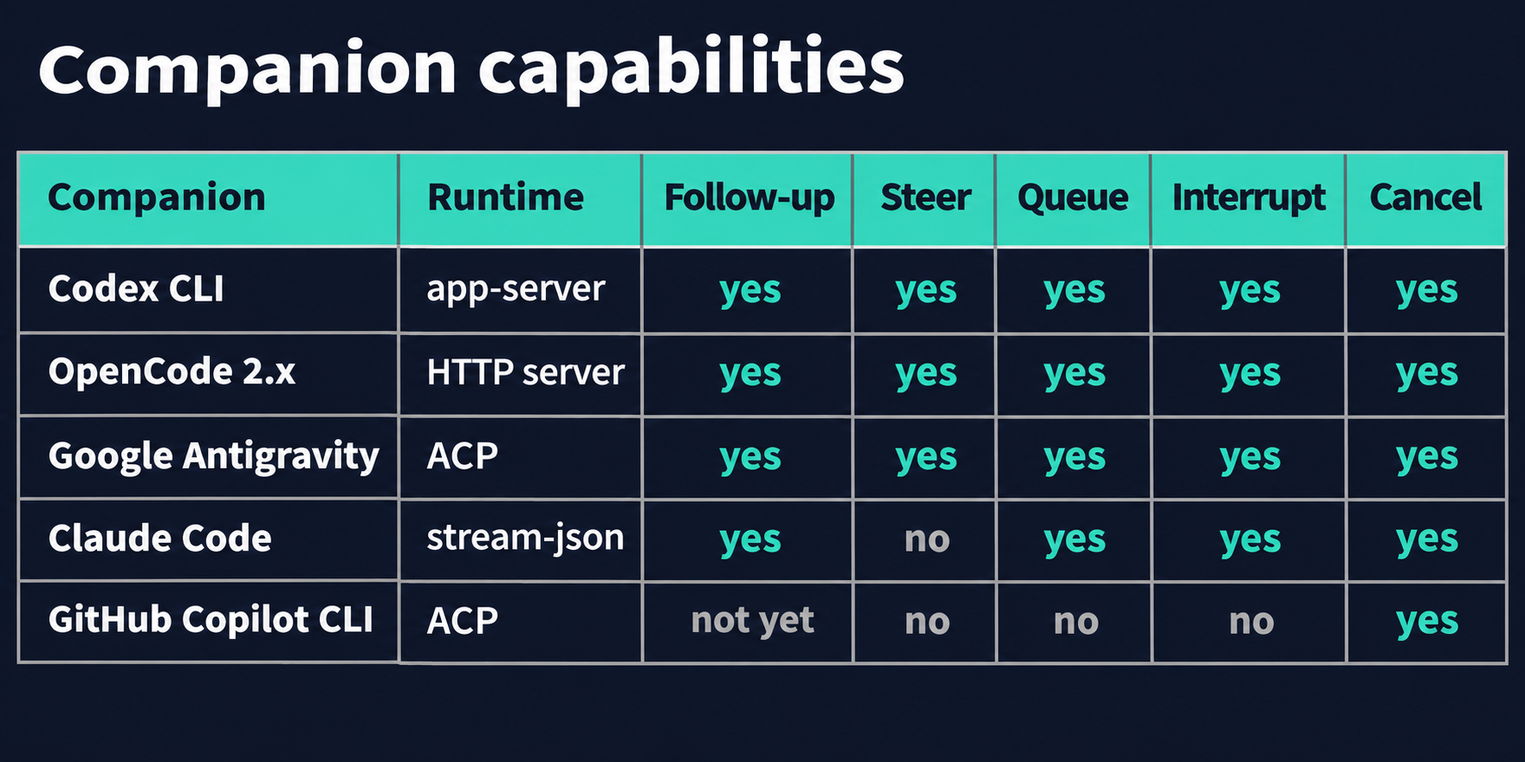
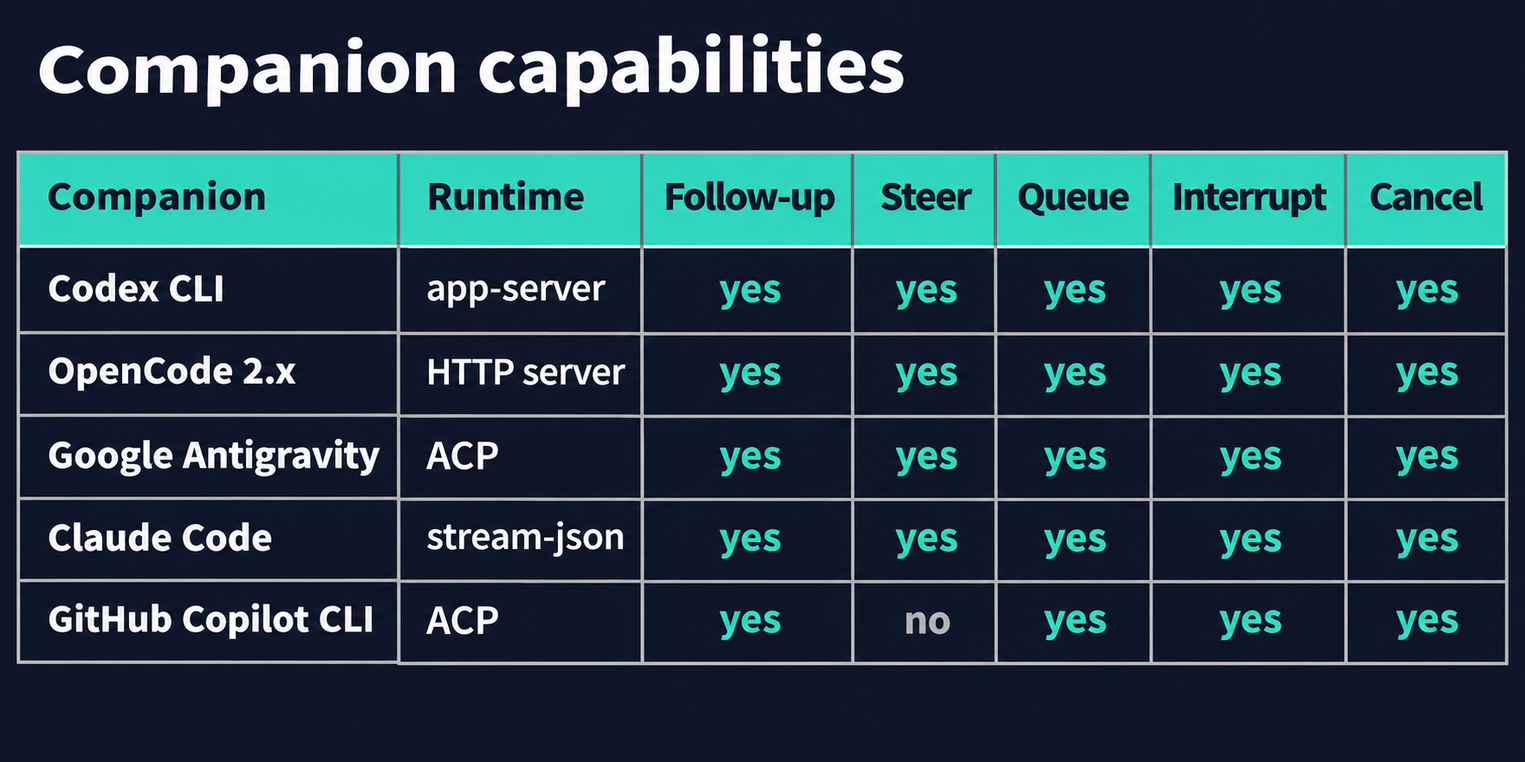
feat(companions): let Copilot follow up on saved history and take queued and interrupting messages, and make Claude's steer and queue real with message priorities
Measured 2026-11-23. Copilot CLI 1.0.114 advertises loadSession; a fresh
process replays the saved session before answering session/load, and the
next model request carries it. The bridge now loads it on a follow-up,
refuses a load that replays nothing and reapplies the model. A second
session/prompt cancels the running one, so Copilot gets queue (default) and
interrupt but no steer. Its load replays user_message_chunk, now declared.

Claude Code 2.1.330 joins a stream-json user message with priority "next"
(or none) at the next tool boundary, and starts "later" after the turn ends.
The bridge sent no priority for queue, so Claude's queue was steering. Steer
now sends "next" (the new default) and queue "later"; a native-queue companion
takes every mode itself and reports the join.

Live through the bridge on local Ollama (32k context, isolated homes): Copilot
follow-up recalled the first job's code word, steer was refused, queue and
interrupt ran as later turns; Claude steer joined the turn, queue and
interrupt ran as later turns. Docs, the capability table and its image follow.

diff --git a/hooks/pane.test.ts b/hooks/pane.test.ts
@@ -486,7 +486,7 @@ test('cancel asks once, sends no text, and no takes it back', async ($, on) => {
   await ui.unmount()
 })
 
-test('Copilot takes cancel only: no box and no mode, cancel kept', async ($, on) => {
+test('a job recorded with no message modes (a Copilot job from an earlier release) takes cancel only: no box and no mode, cancel kept', async ($, on) => {
   const copilot = await boxed($, on, { companion: 'copilot', interventionModes: { default: null, steer: false, queue: false, interrupt: false } })
   expect(await copilot.ui.find({ key: 'message' })).toBeUndefined()
   expect(await copilot.ui.find({ key: 'mode' })).toBeUndefined()

diff --git a/docs/THREAD_FEATURES.md b/docs/THREAD_FEATURES.md
@@ -11,6 +11,8 @@ tests (`hooks/*.test.ts`) run under `claude plugin test`, not `node --test`.
 
 After (2026-11-23) — 143 rows: 109 hold, 30 change by design (the table under Features in THREAD_PLAN.md), 4 never held on main either. Eleven holding rows keep a clause that no test pinned on main either, marked `unpinned (also on main)`; one of them has no pin at all.
 
+The Copilot CLI 1.0.114 and Claude Code 2.1.330 history and message rows reflect measurements from 2026-11-23.
+
 ### 1. Delegation basics
 
 | Feature | Where | Pinned by | Depends on the subagent/owner model? | After (2026-11-23) |
@@ -35,7 +37,7 @@ After (2026-11-23) — 143 rows: 109 hold, 30 change by design (the table under 
 | Feature | Where | Pinned by | Depends on the subagent/owner model? | After (2026-11-23) |
 |---|---|---|---|---|
 | OpenCode 2.x runs as a private, password-authenticated `opencode serve` on loopback per job. 1.x is refused. | adapters/opencode.mjs:57-90; lib/target-registry.mjs:61 | opencode.test.mjs:114, :145 | no | holds: bridge-server/adapters/opencode.test.mjs:114. holds, unpinned (also on main): 1.x refusal in bridge-server/adapters/opencode.mjs:64, :87 |
-| Copilot runs as `copilot --acp` with allow-all flags. It is cancel-only and refuses follow-ups. | target-registry.mjs:116-180 | acp.test.mjs:164, :547; acp-protocol.test.mjs:10 | no | holds: bridge-server/adapters/acp-protocol.test.mjs:10 |
+| Copilot runs as `copilot --acp` with allow-all flags. It loads saved sessions, queues by default and supports interrupt. A second prompt cancels the running turn, so steer is unavailable. | lib/companion-registry.mjs:142 | acp.test.mjs:164, :550; acp-protocol.test.mjs:10 | no | holds: bridge-server/adapters/acp-protocol.test.mjs:10 |
 | Codex runs as an owned `codex app-server` from a selected executable/helper pair. | adapters/codex.mjs:89-121, lib/codex-install.mjs | codex.test.mjs:137; codex-install.test.mjs:80 | no | holds: bridge-server/adapters/codex.test.mjs:137 |
 | Antigravity runs as `agy acp`, and each prompt is followed by a receipt request that proves delivery. | target-registry.mjs:342-395, adapters/acp.mjs:286-293 | acp.test.mjs:141, :780 | no | holds: bridge-server/adapters/acp.test.mjs:780 |
 | Claude Code runs as `claude -p` stream-json with a pinned `--session-id` or `--resume`. Init acknowledges delivery. | adapters/claude-protocol.mjs:5-11, claude.mjs:44-104 | claude.test.mjs:63, :95, :108 | no | holds: bridge-server/adapters/claude.test.mjs:95 |
@@ -47,7 +49,7 @@ After (2026-11-23) — 143 rows: 109 hold, 30 change by design (the table under 
 | `MODEL_NOT_ALLOWED`: a malformed id is refused before start, and a session refusal lists the offered models. | controller.mjs:114; state.mjs:251-259; acp.mjs:125-130 | server.test.mjs:270; acp.test.mjs:195, :249 | no | holds: bridge-server/adapters/acp.test.mjs:179 |
 | `EFFORT_NOT_ALLOWED` lists the offered levels or suggests omitting effort. | server.mjs:170-178; codex.mjs:60-65; acp.mjs:150-152; opencode.mjs:14-22 | server.test.mjs:937, :995; acp.test.mjs:207 | no | differs on main too: a native ACP -32602 for an advertised level was relayed as the provider's message there as well; the offered levels and omission hint come only from the bridge's own checks (bridge-server/adapters/acp.test.mjs:207) |
 | `AUTH_REQUIRED` (ACP error -32000) carries the native message plus the descriptor's sign-in steps. | acp.mjs:232-235 | acp.test.mjs:22 | no | holds: bridge-server/adapters/acp.test.mjs:22 |
-| A Copilot follow-up returns `FOLLOWUP_UNSUPPORTED` and never silently starts fresh. | controller.mjs:117 | acp.test.mjs:164; controller.test.mjs:292 | yes: follow-up is the owner's saved history | holds: bridge-server/adapters/acp.test.mjs:164 |
+| A fresh Copilot process loads the saved session and reapplies the model override. Missing replay for that session fails the job with `history_unavailable`. | bridge-server/adapters/acp.mjs:78 | acp.test.mjs:164, :393 | yes: follow-up is the owner's saved history | holds: bridge-server/adapters/acp.test.mjs:164, :393 |
 | `provider_mismatch` and `cwd_mismatch` come with hints naming the bound companion and path. | controller.mjs:101-102; server.mjs:810-819 | server.test.mjs:967; controller.test.mjs:302 | yes: binding is per owner | holds: test/tools.test.mjs:339 |
 | A different task, model or effort on a busy conversation returns `thread_busy`. | controller.mjs:108 | controller.test.mjs:93; incident-regressions.test.mjs:40 | yes: per owner conversation | by design: A different task on a busy conversation returns `thread_busy` |
 | There is no silent fallback: missing history is `history_unavailable`, an unverified previous tree is `previous_execution_unverified`, and ambiguous legacy history is refused. | controller.mjs:154; records.mjs:131-146,196 | controller.test.mjs:292, :326; records.test.mjs:17; migration.test.mjs:172 | yes: per owner conversation | by design: Ambiguous legacy history is refused (`thread_ambiguous`) |
@@ -65,7 +67,7 @@ After (2026-11-23) — 143 rows: 109 hold, 30 change by design (the table under 
 | Claude's static levels (low through max) are validated before spawn and passed as `--effort`. | target-registry.mjs:304; server.mjs:175 | server.test.mjs:359; claude-protocol.test.mjs:61 | no | holds: bridge-server/adapters/claude-protocol.test.mjs:61 |
 | Codex validates against the paginated `model/list`, reads the saved model before resume and confirms `reasoningEffort`. Unlisted models are unverified. | codex.mjs:127-162 | codex.test.mjs:374, :416, :454, :506, :522 | no | holds: bridge-server/adapters/codex.test.mjs:376 |
 | OpenCode effort picks an advertised variant before the model POST, overrides any `#variant`, and is verified from the report. | opencode.mjs:14-22,145-187 | opencode.test.mjs:170, :267, :305, :339 | no | holds: bridge-server/adapters/opencode.test.mjs:305 |
-| Copilot and Antigravity set the session's `model` and `thought_level` options and confirm `currentValue`. Antigravity reapplies them after load. | acp.mjs:115-160,218-226 | acp.test.mjs:141, :207, :363, :461 | no | holds: bridge-server/adapters/acp.test.mjs:363 |
+| Copilot and Antigravity set the session's `model` and `thought_level` options and confirm `currentValue`. Both reapply overrides after load. | acp.mjs:115-160,218-226 | acp.test.mjs:141, :207, :363, :461 | no | holds: bridge-server/adapters/acp.test.mjs:363 |
 | Effective model and effort come from provider reports (including Codex `model/rerouted`) and are kept separate from selected values. | controller.mjs:156-170; codex.mjs:299-305,333 | codex.test.mjs:218, :365; controller.test.mjs:419 | no | holds: bridge-server/adapters/codex.test.mjs:218 |
 | The catalog shows model, effort (saved, last_run, levels), permission, capabilities, readiness, installed version and Codex `contractStatus`, and spawns nothing. | server.mjs:440-487; last-runs.mjs:16 | conversation.test.mjs:56, :129, :157 | no | holds: bridge-server/conversation.test.mjs:23 |
 | Onboarding and setup save or clear a companion's model (`--model <id\|inherit>`) behind the readiness gate. | scripts/onboard.mjs:86-118,326; setup.sh:32,630 | onboard.test.mjs:319, :367; setup-codex-install.test.mjs:674 | no | holds: scripts/onboard.test.mjs:319 |
@@ -75,9 +77,9 @@ After (2026-11-23) — 143 rows: 109 hold, 30 change by design (the table under 
 | Feature | Where | Pinned by | Depends on the subagent/owner model? | After (2026-11-23) |
 |---|---|---|---|---|
 | `agent_reply` sends a steer, queue or interrupt. An omitted mode uses the execution's saved default. | server.mjs:422-426; controller.mjs:462-509 | server.test.mjs:721; interventions.test.mjs:286 | yes: caller replies need the owner | by design: `agent_reply` |
-| An unsupported mode or a closed job returns `reply_unavailable` with reason `capability` or `state`, and no other mode is substituted. | controller.mjs:18-19,472-477 | server.test.mjs:761, :778; acp.test.mjs:547 | partly | by design: a `mode` with no running job is refused as invalid; text alone on an ended thread is a follow-up (plan Features, step 2). A refused running mode returns `intervention_unavailable` with its reason: test/tools.test.mjs:222, :195 (mode on an ended thread) |
+| An unsupported mode or a closed job returns `reply_unavailable` with reason `capability` or `state`, and no other mode is substituted. | controller.mjs:18-19,472-477 | server.test.mjs:761, :778; acp.test.mjs:550 | partly | by design: a `mode` with no running job is refused as invalid; text alone on an ended thread is a follow-up (plan Features, step 2). A refused running mode returns `intervention_unavailable` with its reason: test/tools.test.mjs:222, :195 (mode on an ended thread) |
 | Reply text is capped at 8000 characters. | validation.mjs:138-140 | validation.test.mjs:53 | no | holds: test/tools.test.mjs:339 |
-| Codex, OpenCode and Antigravity default to steer with bridge queue and interrupt. Claude defaults to native queue plus interrupt. Copilot has no modes. | target-registry.mjs:72,127,221,302,354 | target-registry.test.mjs:14; host-parity.test.mjs:107 | no | holds: lib/target-registry.test.mjs:14 |
+| Codex, OpenCode and Antigravity default to steer with bridge queue and interrupt. Claude defaults to steer (`next`), queues natively (`later`) and supports interrupt (`send_now`). Copilot offers bridge queue (default) and interrupt. | lib/companion-registry.mjs:82,142,245,332,389 | lib/companion-registry.test.mjs:14 | no | holds: bridge-server/adapters/claude.test.mjs:307, :320, :344 and bridge-server/adapters/acp.test.mjs:550 |
 | Status reports which of default, steer, queue and interrupt are usable now (all false after close). The catalog reports registry capability. | controller.mjs:536-537; server.mjs:475 | server.test.mjs:721-795 | no | holds: test/tools.test.mjs:408 (status), bridge-server/conversation.test.mjs:23 (catalog). After close the three mode flags are false and `default` keeps its mode name. |
 | Each execution snapshots its `interventionModes` at creation, and the views offer only those. | controller.mjs:120; records.mjs:201 | ui.test.mjs:231; pane.test.ts:699 | no | holds: test/controller/interventions.test.mjs:70 |
 | Queued input becomes the next turn on the same live session, interrupt input goes first, and Claude keeps a native queue. | controller.mjs:200-217,483-492 | interventions.test.mjs:257, :324, :350 | no | holds: test/controller/interventions.test.mjs:299 |
@@ -123,7 +125,7 @@ After (2026-11-23) — 143 rows: 109 hold, 30 change by design (the table under 
 | Results carry stop evidence: gone, signals, survivors, cleanup time and the protocol steps. | controller.mjs:395; server.mjs:312-314 | controller.test.mjs:365 | no | holds: test/controller/controller.test.mjs:230 |
 | The per-call wall is Claude `timeout` 1320000 ms and Codex `tool_timeout_sec` 1320. Wait defaults to 480 s, is capped at 1200 s, and the controller refuses anything above 1200 s. | .claude-plugin/plugin.json:19; .codex-plugin/plugin.json:34; server.mjs:155-158; controller.mjs:431 | host-parity.test.mjs:75; server.test.mjs:79 | no | holds: test/hosts.test.mjs:91 (both walls), test/tools.test.mjs:339 (480/1200 s). holds, unpinned (also on main): direct over-cap refusal in bridge-server/controller/controller.mjs:370 |
 | Start, history and deliver are each bounded at 10 s. | controller.mjs:15-16,148,152,236 | controller.test.mjs:216, :316 | no | holds: bridge-server/adapters/opencode.test.mjs:219 (OpenCode startup), test/controller/controller.test.mjs:67 (delivery). holds, unpinned (also on main): controller start and history deadlines in bridge-server/controller/controller.mjs:98, :102 |
-| Resume per companion: Codex `thread/resume` refuses a busy thread, OpenCode uses its saved session, Claude `--resume` checks the transcript first, Antigravity `session/load` must replay history, and Copilot is refused. | codex.mjs:153-158; claude.mjs:83-90; acp.mjs:80-85,223; target-registry.mjs:165,381 | codex.test.mjs:137, :312; opencode.test.mjs:114, :231; claude.test.mjs:223, :241; acp.test.mjs:391 | yes: history saved per owner | holds: bridge-server/adapters/codex.test.mjs:137, bridge-server/adapters/opencode.test.mjs:114, bridge-server/adapters/claude.test.mjs:63, :233, bridge-server/adapters/acp.test.mjs:391, :164. holds, unpinned (also on main): busy Codex resume in bridge-server/adapters/codex.mjs:158 |
+| Resume per companion: Codex `thread/resume` refuses a busy thread, OpenCode uses its saved session, Claude `--resume` checks the transcript first, and Antigravity and Copilot require history replay on `session/load`. | codex.mjs:153-158; claude.mjs:83-90; acp.mjs:80-85,223; lib/companion-registry.mjs:182,417 | codex.test.mjs:137, :312; opencode.test.mjs:114, :231; claude.test.mjs:223, :241; acp.test.mjs:393 | yes: history saved per owner | holds: bridge-server/adapters/codex.test.mjs:137, bridge-server/adapters/opencode.test.mjs:114, bridge-server/adapters/claude.test.mjs:63, :233, bridge-server/adapters/acp.test.mjs:393, :164. holds, unpinned (also on main): busy Codex resume in bridge-server/adapters/codex.mjs:158 |
 | Antigravity keeps a turn open while a command or subagent is unfinished (3 s / 120 s quiet rules). Silence alone never ends it. | acp.mjs:39-60,253-257; target-registry.mjs:385-387 | acp.test.mjs:607, :659, :671, :707, :739 | no | holds: bridge-server/adapters/acp.test.mjs:607 |
 | Records are written atomically and privately, a crash-left lock fails closed as `RECORD_BUSY`, writers are fenced by generation, and results are immutable. | records.mjs:157-243 | records.test.mjs:27, :59, :69; controller.test.mjs:377 | partly: lock is per owner | holds: test/tools.test.mjs:341 (private record), test/controller/records.test.mjs:27 (generation and immutable result), :68 (competing writers). holds, unpinned (also on main): atomic replacement and crash-left `RECORD_BUSY` in bridge-server/controller/records.mjs:140, :144 |
 | A provider retry (`willRetry`) stays progress and never ends the job. | codex.mjs:355-357 | controller.test.mjs:257; incident-regressions.test.mjs:75; codex.test.mjs:229 | no | holds: bridge-server/adapters/codex.test.mjs:229 |
@@ -159,7 +161,7 @@ After (2026-11-23) — 143 rows: 109 hold, 30 change by design (the table under 
 | The view follows the native transcript live with the live line last. An ended job opens on its outcome, output is folded, preamble hidden, and labels are task/lead/you. | ui/follow.mjs:84-163; lib/transcripts.mjs:161; rows.mjs:168-356 | follow.test.mjs:15, :60; ui.test.mjs:198, :414, :435, :453; transcripts.test.mjs:122, :146 | no | holds: bridge-server/ui/ui.test.mjs:453 |
 | Native text is cleaned of terminal escapes, bidi overrides and controls, and no frame row contains a newline. | rows.mjs:10-22 | rows.test.mjs:7; ui.test.mjs:487, :495 | no | holds: bridge-server/ui/rows.test.mjs:7 |
 | List and transcript keys: arrows or j/k, Enter/Tab/Esc, PgUp/PgDn/Space, g/G, e/E, p, f, /, o, ?, q. | model.mjs:191-246 | ui.test.mjs:178, :380, :435 | no | holds: bridge-server/ui/ui.test.mjs:380 (list, Enter, Esc), :198, :414 (Tab, arrows, paging), :435 (g, e/E, p), :453 (G), :473 (/, o), bridge-server/ui/perf.test.mjs:59 (f). holds, unpinned (also on main): j/k, Space, ?, q in bridge-server/ui/model.mjs:194 |
-| The message box sends in the default mode, Shift+Tab cycles modes, Ctrl+J adds a line, Ctrl+X cancels after y/n, Esc keeps the draft. Refusals show in red; Copilot gets cancel only; an older bridge's job gets a hint. | model.mjs:250-300 | ui.test.mjs:69, :106, :140, :156, :231, :238, :252, :509 | no | holds: bridge-server/ui/ui.test.mjs:69 |
+| The message box sends in the default mode, Shift+Tab cycles modes, Ctrl+J adds a line, Ctrl+X cancels after y/n, Esc keeps the draft. Refusals show in red; Copilot offers queue, interrupt and cancel; an older bridge's job gets a hint. | model.mjs:250-300 | ui.test.mjs:69, :106, :140, :156, :231, :238, :252, :509 | no | holds: bridge-server/ui/ui.test.mjs:69, :238 and lib/companion-registry.test.mjs:14 |
 | A performance gate compares append, scroll, typing, resize and expand at about 500 and 10,000 items. | ui/perf.test.mjs:59 | perf.test.mjs:59 | no | holds: bridge-server/ui/perf.test.mjs:59 |
 | The `d` panel shows saved and inherited values. Enter edits and saves through the same checks, an empty value clears, and a refusal keeps the draft. | model.mjs:215,338-339; ui/defaults.mjs | ui.test.mjs:312, :335, :366 | no | holds: bridge-server/ui/ui.test.mjs:335 |
 | `agent-companion defaults` lists, sets and clears model, effort and target (with `--json`), reads Codex and OpenCode natively, shows the last run for the others, and lists conflicts. | ui/defaults.mjs:45-248; hooks/launch-ui.sh:24 | defaults.test.mjs:66, :90, :113, :165, :229, :264, :311 | no | holds: bridge-server/ui/defaults.test.mjs:66 |

diff --git a/docs/ARCHITECTURE.md b/docs/ARCHITECTURE.md
@@ -185,7 +185,7 @@ The separate `models.availableModels` list still had suffixed Gemini ids.
 The adapter uses the session options. Gemini 3.8 Flash offered `low`, `medium`
 and `high` as thought levels. A reload reset effort to the default, so the
 adapter reapplies both overrides after each load.
-Copilot receives no spawn effort flag. Its cold follow-up remains unsupported.
+Copilot receives no spawn effort flag. The bridge reapplies its model override after a cold load.
 Claude rejects off-enum effort before spawn. Its CLI selection persistence
 was not measured here.
 
@@ -255,9 +255,8 @@ the job's input chain. The tool checks the caller's lead identity. The live view
 states are refused before recording input.
 
 After each native result, the controller settles accepted writes and continues
-while the adapter has pending input or the bridge holds messages. Native queued
-input stays with Claude, which decides whether it joins the current turn or
-starts another. Bridge-held queues start the next turn on the same session.
+while the adapter has pending input or the bridge holds messages. Claude handles queue natively
+and starts the queued message after the running turn ends. Bridge-held queues start the next turn on the same session.
 Interrupt ends the active turn natively, then sends only the new text, ahead
 of held queues. Failure ends the job; outstanding messages become `not_delivered`.
 The result lists each turn's answer once, labelled with the message(s) it answers,
@@ -304,9 +303,9 @@ Each job owns a new process, including the HTTP and ACP providers.
 | --- | --- | --- | --- | --- | --- |
 | Codex CLI | `codex app-server` over stdio | `thread/resume` | Steer, queue, interrupt; steer accepted and confirmed are separate | Explicit override, otherwise inherited; effective model/effort recorded | Saved thread id and vendor rollouts |
 | OpenCode 2.x only | Private `opencode serve` on loopback | Saved session id | Steer, queue, interrupt | `provider/model`, optional variant; resolved model verified | Vendor-persisted session |
-| GitHub Copilot CLI | `copilot --acp` | `FOLLOWUP_UNSUPPORTED` until cold load is qualified | Unsupported | Inherit or select an advertised session model | Session id retained; cross-process load unqualified |
+| GitHub Copilot CLI | `copilot --acp` | `session/load` with history replay | Queue, interrupt | Inherit or select an advertised session model | Native session under `$COPILOT_HOME` |
 | Google Antigravity | `agy acp` over stdio | `session/load` with history replay | Steer (default), queue, interrupt | `model` and `thought_level` after new and load | SQLite under `~/.gemini/antigravity-cli/conversations/` |
-| Claude Code | `claude -p` stream-json over stdio | `--resume` saved session id | Queue, interrupt (`send_now`) | Explicit override, otherwise inherited | Native session id and transcripts |
+| Claude Code | `claude -p` stream-json over stdio | `--resume` saved session id | Steer, queue, interrupt | Explicit override, otherwise inherited | Native session id and transcripts |
 
 OpenCode validates the 2.x authenticated `/api` contract and runtime pid. Its
 bootstrap password stays only in adapter memory. The OS cwd and `PWD` both match
@@ -326,8 +325,22 @@ bridge; catalog's Codex entry and status expose `contractStatus` as
 `match|drift|unverified`. A version-only change is not schema drift.
 
 ACP pins protocol v1. The descriptor supplies argv, permissions, usage and model
-rules. The adapter handles `session/request_permission` itself. Copilot cold
-follow-up remains refused pending account resolution and qualification.
+rules. The adapter handles `session/request_permission` itself. Measured 2026-11-23 on local Ollama in an isolated
+home, Copilot CLI 1.0.114 advertised `loadSession: true` and the `close` and
+`list` session capabilities at initialization. A fresh `copilot --acp` process
+replayed `session/update` notifications, including `user_message_chunk`, before
+answering `session/load`. The next model request included that history and the
+model recalled a code word from the first job. Copilot stores sessions in
+`$COPILOT_HOME/session-state` and `$COPILOT_HOME/session-store.db` (default
+home `~/.copilot`). The bridge requires replay for the saved session. Empty
+replay fails the job with `history_unavailable`. GitHub-hosted models still
+returned 403 on `session/new` for this account.
+
+A second Copilot `session/prompt` cancelled the running prompt
+(`stopReason: cancelled`) and answered the new one. The bridge therefore
+refuses steer. By default it holds the message until the turn ends, then
+sends the next prompt on the same connection. Interrupt sends `session/cancel`
+first.
 
 Antigravity steers with a second `session/prompt` on the running session. The CLI
 answers the first prompt with `end_turn` at once and continues the work under the
@@ -345,8 +358,13 @@ user message is not the acknowledgement. Results are filtered by session id;
 not necessarily the process; the controller owns close and termination.
 Interruption sends a stdin `control_request` with subtype `interrupt`; after an
 adapter-requested interrupt, `aborted_streaming` and `aborted_tools` map to
-`interrupted`. There is no steer support. Queued input is written immediately;
-native UUID lifecycle events identify joined messages and pending turns.
+`interrupted`. Measured 2026-11-23 with the bridge's own `claude -p` stream-json
+arguments, Claude Code 2.1.330 joined a user message with `priority: "next"`
+at the next tool boundary. Omitting priority did the same, so the bridge's
+former queue steered. The bridge now sends `next` for steer (the default) and
+`later` for queue. Claude waits for the turn to end before starting queued input.
+Interrupt still uses the `send_now` control request. Native UUID lifecycle
+events identify joined messages and pending turns.
 
 The Claude companion denies
 `mcp__plugin_agent-companion_agent-bridge__*` and `mcp__agent-bridge__*` through
@@ -384,7 +402,8 @@ See historical substitution failure [F5](RELIABILITY_REMEDIATION.md#1-incident-a
 A follow-up whose saved history cannot be opened fails as `history_unavailable`;
 a new thread whose companion session cannot be created fails as
 `history_create_failed` (Copilot's 403 on an unentitled account, a refused model);
-unsupported cold follow-up fails as `FOLLOWUP_UNSUPPORTED`.
+`FOLLOWUP_UNSUPPORTED` is reserved for companions without saved history.
+No shipped companion returns it.
 A missing delivery acknowledgement produces `delivery_unknown`, terminates the
 runtime and is never automatically resent.
 
@@ -404,7 +423,7 @@ processes. The provider factories create an adapter with this interface:
 | `close()` | Close protocol channels; process termination belongs to the supervisor. |
 | `capabilities` | `{ followUp, modelSelection, loadsHistory, interventions }`; `interventions` references the companion registry's `{ default, steer, queue, interrupt }`, with queue `false`, `bridge` or `native`. Unsupported history load refuses follow-up. |
 | `steer({ text, id })` | Supported by Codex, OpenCode and Antigravity. Codex reports acceptance separately from observed confirmation. |
-| `intervene(input)`, `hasPendingInput()` | Native queue/interrupt delivery and pending-turn observation, used for Claude. Other supported queues are held by the controller. |
+| `intervene(input)`, `hasPendingInput()` | Native steer, queue and interrupt delivery and pending-turn observation, used for Claude. Other supported queues are held by the controller. |
 
 The one startup exception is Claude: `start` receives the saved `historyId` so it
 can choose `--session-id` versus `--resume` at spawn. Other adapters ignore that
@@ -1058,14 +1077,16 @@ These passive fixtures establish host signals, not the shipped cleanup implement
   Work continuing after `end_turn` has no further prompt
   counters, so the bridge marks usage partial. The corrupt-image turn had no usage.
 - **A companion advertising `loadSession: true` does not mean its sessions survive its
-  process.** Copilot CLI 1.0.83 advertises it (measured) and its sessions are
-  process-local (github/copilot-cli#1767). Which is why `session/load` is a
-  descriptor decision (`acp.loadSession`) ANDed with the companion's advertisement, not
-  the advertisement alone: Copilot false; the fake companion's descriptor true; Antigravity
-  true, and measured to mean it — a fresh `agy_acp_server.par` process loads the id,
-  replays twelve updates of history and answers the follow-up from memory.
+  process.** Copilot CLI 1.0.83 advertised it (measured) and its sessions were
+  process-local (github/copilot-cli#1767). The bridge disabled cold load for that version.
+  It requires both the descriptor's `acp.loadSession` and the CLI's advertisement.
+  A fresh Antigravity `agy_acp_server.par` process loaded the id, replayed twelve
+  history updates and answered the follow-up from memory.
   **Superseded 2026-11-22:** `agy acp` replays its own saved histories. A load
   with no replay is refused, including a follow-up to an old `.par` conversation.
+  **Copilot 1.0.114, measured 2026-11-23:** A fresh process on local Ollama
+  replayed the saved session and recalled its code word. The bridge now enables
+  cold load for Copilot and requires replay for the requested session.
 - **A v2 `initialize` request is answered with `protocolVersion: 1`.** By both agents
   measured (Copilot 1.0.83, Gemini 0.59.0; the spec says an agent answers with the
   latest version it supports), so a client cannot probe for v2 support by asking — and

diff --git a/README.md b/README.md
@@ -48,8 +48,7 @@ The lead reuses the thread id. A follow-up after completion starts a new job wit
 where supported. It keeps the model and effort unless you change them. A refused effort preserves the old choice.
 
 **Change running work.** Send new text (up to 8,000 characters) on the thread.
-Steer joins the current turn. Queue holds the message for the next turn, except that
-Claude can join it to the current one. Interrupt stops the turn and sends the new text.
+Steer joins the current turn. Queue holds the message for the next turn. Interrupt stops the turn and sends the new text.
 Omit the mode to use the companion's default. Status shows which modes work now.
 An unavailable mode returns `intervention_unavailable`. Changing model or effort
 mid-job returns `thread_busy`. Repeating the original send returns the existing job.
@@ -100,10 +99,10 @@ If you asked for tests, check the commands and exit codes. Ask the lead to cance
 | Companion | Per-job runtime | Follow-up by cold resume | In-flight messages (default first) | Model selection | History |
 | --- | --- | --- | --- | --- | --- |
 | OpenCode 2.x | Private authenticated `opencode serve` | Saved session | Steer, queue, interrupt | `provider/model`, optional variant | Vendor-persisted session |
-| GitHub Copilot CLI | `copilot --acp` | Unsupported until qualified | Unsupported | Inherit or select a model advertised by the session | Session id retained, cold load unqualified |
+| GitHub Copilot CLI | `copilot --acp` | `session/load` with history replay | Queue, interrupt | Inherit or select an advertised session model | Native session under `$COPILOT_HOME` |
 | Codex CLI | `codex app-server` | `thread/resume` | Steer, queue, interrupt | Inherit or explicit override | Native thread and rollouts |
 | Google Antigravity | `agy acp` over stdio | `session/load` with history replay | Steer, queue, interrupt | Session model and thought level after new/load | Native SQLite history |
-| Claude Code | `claude -p` | `--resume` saved session | Queue, interrupt | Inherit or explicit override | Native transcripts |
+| Claude Code | `claude -p` | `--resume` saved session | Steer, queue, interrupt | Inherit or explicit override | Native transcripts |
 
 **OpenCode.** Run `opencode` and use `/connect` to choose a provider. OpenCode 2.x
 supplies its own server permissions. Inherit its model or request a `provider/model`
@@ -112,9 +111,11 @@ precedence over the variant in the model string.
 
 **GitHub Copilot CLI.** Run `copilot login` with an account that can use Copilot CLI.
 Inherit the session model or pick one it offers. Effort must match that model's
-thought levels. The bundled reviewer inherits the session model. You can cancel a
-running job. Follow-ups return `FOLLOWUP_UNSUPPORTED`, so start a new thread and
-include the context it needs.
+thought levels. The bundled reviewer inherits the session model. Measured on 1.0.114 with local Ollama on
+2026-11-23, a fresh process replayed the saved session and recalled a code word.
+The bridge reapplies the model override after load. Empty replay fails the job
+with `history_unavailable`. Queue is the default. Steer is unavailable because a
+second prompt cancels the running turn. Interrupt cancels, then sends the new text.
 
 **Codex CLI.** Use `codex login` or configure API-key login. Inherit the configured
 model or request one explicitly. Codex checks effort for listed models. For an
@@ -131,6 +132,8 @@ or `ANTHROPIC_API_KEY`. Billing follows your plan or API setup. Inherit your mod
 or name an id or alias. Effort accepts `low`, `medium`, `high`, `xhigh` or `max`.
 Even from a Claude host, the child denies the bridge's tools to itself and disables
 background tasks. Your settings, hooks, plugins and CLAUDE.md still load. Installed runs used 2.1.319.
+Measured on 2.1.330 on 2026-11-23, steer (the default) joined the turn at its
+next tool boundary. Queue waited for the next turn.
 Older versions are unverified. The `--permission-prompts` flag needs 2.1.259 or later. [Compatibility and release gates](docs/RELEASE_READINESS.md)
 
 ## Hosts

diff --git a/docs/RELEASE_READINESS.md b/docs/RELEASE_READINESS.md
@@ -15,7 +15,7 @@ resume, verified cleanup and host-identified leads are the acceptance contract. 
 [Claude report](../probes/host-qualification/claude/REPORT-2026-11-05.md) (2.1.318)
 and [Codex report](../probes/host-qualification/codex/REPORT-2026-11-05.md) (0.166.0)
 are measured host inputs, not installed-form cleanup qualification. Codex desktop,
-operator-only TUI rows, Copilot cold load and Claude companion smoke on both
+operator-only TUI rows and Claude companion smoke on both
 hosts remain open release gates. Those older reports establish Claude as a host,
 not Claude as a companion.
 
@@ -74,12 +74,13 @@ OpenCode companion:
 
 GitHub Copilot CLI companion:
 
-- `lib/target-registry.mjs` prefers native ACP prompt usage and falls back to
+- The ACP adapter prefers native prompt usage and falls back to
   OTEL. Its `usage_update` event is context occupancy, not per-turn tokens.
   Qualify usage on the installed CLI rather than assuming the wire shape from
   its version number.
-- Cold follow-up is refused until account access and cross-process session
-  loading are qualified. No critic footer or answer classification is added.
+- Copilot CLI 1.0.114 replayed saved history on local Ollama (2026-11-23).
+  The bridge requires replay on cold load and reapplies the model override.
+  GitHub-hosted models still get 403 on `session/new` on this account. No critic footer or answer classification is added.
   Supported model ids belong in `lib/state.mjs`.
 
 Codex CLI companion:
@@ -193,8 +194,8 @@ Manual smoke gates before a public tag (real delegations spend model tokens):
    reuse in a new process, default steer, cancel, a background command's file
    and final reply, model selection and bridge-loss cleanup. The probe logs
    whether the model waited in the prompt or the bridge kept the turn open.
-   Also qualify a real Copilot first send and usage, then
-   explicitly test `FOLLOWUP_UNSUPPORTED`; enable cold load only after its own gate.
+   For Copilot, qualify first-send usage on the installed CLI and verify cold
+   follow-up by recalling a value from the first job.
 10. OpenCode 2.x: verify new pid plus same native history on follow-up, canonical
     cwd/worktree and symlink cases, model changes and inherited/resolved model,
     transcript boundaries, cancellation and no surviving descendants. Two
@@ -237,5 +238,6 @@ and verify fresh CI on that exact commit before publication.
   delivery 0.6 s after the job ended, and `/quit` with
   `thread_unload_delay_secs = 0` ending a running job in bridge loss after
   3.5 s.
-- Open, as before: Codex desktop, Copilot cold load and older Claude Code
-  versions; gates 3, 4 and 7 to 11 were not rerun for this release.
+- Live bridge check, 2026-11-23 (isolated homes, local Ollama `gpt-oss:20b`, 32k context): Copilot CLI 1.0.114 recalled the code word on the same thread and refused steer with `intervention_unavailable` (reason `capability`). Claude Code 2.1.330 steer joined two messages in one turn. On both companions, queue ran a second turn. Interrupt ended the first turn as `interrupted` and answered in the second.
+- Codex desktop and older Claude Code versions remain open. Gates 3, 4 and
+  7 to 11 were not rerun in full for this release.

diff --git a/docs/MVP_TRACKER.md b/docs/MVP_TRACKER.md
@@ -80,12 +80,12 @@ tracked in [Release Readiness](RELEASE_READINESS.md).
   wire-effort assertions; implementation validation is hermetic, with live execution
   left to the reviewer.
 
-- Copilot cold follow-up is unsupported (`FOLLOWUP_UNSUPPORTED`) pending account
-  resolution and qualification of cross-process history loading. It must not
-  silently open a new conversation. Copilot accepts no interventions. Codex,
-  OpenCode and Antigravity default to steer and support queue and interrupt.
-  Claude Code defaults to queue and supports interrupt. Unsupported modes
-  return `intervention_unavailable`.
+- Copilot loads saved history on follow-up and fails with `history_unavailable`
+  if the session replays nothing. Its bridge queue is the default. It supports
+  interrupt and refuses steer because a second prompt cancels the running turn.
+  Claude Code, Codex, OpenCode and Antigravity default to steer and support queue
+  and interrupt.
+- Live bridge check, 2026-11-23 (isolated homes, local Ollama `gpt-oss:20b`, 32k context): Copilot CLI 1.0.114 recalled the code word on the same thread and refused steer with `intervention_unavailable` (reason `capability`). Claude Code 2.1.330 steer joined two messages in one turn. On both companions, queue ran a second turn. Interrupt ended the first turn as `interrupted` and answered in the second.
 - OpenCode 1.x is dropped; only the authenticated 2.x HTTP contract is shipped.
 - Codex desktop remains unqualified. TUI-only rows require operator actions:
   compaction, UI stop/restart, native close, suspend/wake and clock observation.
@@ -284,8 +284,8 @@ tracked in [Release Readiness](RELEASE_READINESS.md).
 - Refresh the README artwork and demo for direct threads and the five current
   companions. The architecture diagram and recording still show the former role.
 - Qualify Codex desktop and finish operator-only TUI rows.
-- Resolve Copilot account access, then qualify cold history loading before
-  enabling follow-up; a capability advertisement is insufficient.
+- Qualify GitHub-hosted Copilot models once this account can open a session.
+  It still gets 403 on `session/new`.
 - Phase 5: include a workspace-diff summary on failure, with explicit observation
   limits; partial assistant text does not establish what changed on disk.
 - Permission mirroring remains a separate decision: align companion access
@@ -313,7 +313,7 @@ tracked in [Release Readiness](RELEASE_READINESS.md).
   adapter, as t3code does ([providers-acp.md](https://github.com/pingdotgg/t3code/blob/main/docs/user/providers-acp.md)).
   Each companion has its own quirks (see Negative Results: approval flags,
   advertised `loadSession`, usage shapes), so an unqualified companion would get
-  conservative defaults: no cold follow-up, cancel only, no usage. Needs decision
+  conservative defaults: no cold follow-up, cancellation without in-flight messages, no usage. Needs decision
   9's adoption check and a named companion the user would actually use.
 
 ## Validation Commands

diff --git a/CLAUDE.md b/CLAUDE.md
@@ -58,11 +58,12 @@ Companion/model/effort refusals are `COMPANION_UNCONFIGURED`, `COMPANION_UNSUPPO
 authentication refusals are `AUTH_REQUIRED`, with the descriptor's sign-in steps;
 they are setup problems, not reasons to retry or switch companion. Lead, history
 and job refusals are separate: `LEAD_REQUIRED`, `THREAD_NOT_YOURS`,
-`RECURSION_REFUSED` and `FOLLOWUP_UNSUPPORTED`. Omitted companion uses the
+`RECURSION_REFUSED` and `FOLLOWUP_UNSUPPORTED`. The latter is reserved for companions
+without saved history. No shipped companion returns it. Omitted companion uses the
 configured default; omitted model inherits configuration unless the thread
 already has an override. Effort is a thread override too, supported by all five
 companions. Claude has static levels `low`, `medium`, `high`, `xhigh`, `max`.
-Copilot sets a requested model after `session/new` through
+Copilot sets a requested model after `session/new` or `session/load` through
 `session/set_config_option` and confirms `currentValue`. A model refusal lists
 the session's advertised ids. Copilot and Antigravity validate and confirm the
 selected model's ACP `thought_level` and report inherited effort. Codex catalog
@@ -86,10 +87,13 @@ without retaining thinking content. The bridge delivers task text verbatim.
 
 **Capabilities are provider facts.** Codex uses app-server, OpenCode uses its
 2.x HTTP server, and Copilot/Antigravity use ACP. Claude Code uses its own `-p`
-stream-json protocol; cold follow-up via the saved session. Codex, OpenCode and
-Antigravity default to steer and support queue and interrupt. Claude defaults to
-queue and supports interrupt. Copilot supports cancel only. There are no
-transport-selection knobs. Copilot cold follow-up is refused until qualified.
+stream-json protocol and resumes its saved session. Codex, OpenCode, Antigravity
+and Claude default to steer and support queue and interrupt. Measured 2026-11-23,
+Claude Code 2.1.330 steered with `priority: "next"` and queued with `"later"`.
+Copilot CLI 1.0.114 replayed saved history in a fresh process on local Ollama.
+The bridge requires replay, queues by default and supports interrupt. Steer is
+unavailable because a second prompt cancels the running turn. Each companion
+uses a fixed transport.
 Routing applies model defaults only on a new thread. Both hosts share
 `settings.json` and its one-shot migration in `lib/state.mjs`.
 

diff --git a/assets/readme/PROMPTS.md b/assets/readme/PROMPTS.md
@@ -55,11 +55,11 @@ Title `Companion capabilities`. Columns `Companion`, `Runtime`, `Follow-up`,
 | Codex CLI | app-server | yes | yes | yes | yes | yes |
 | OpenCode 2.x | HTTP server | yes | yes | yes | yes | yes |
 | Google Antigravity | ACP | yes | yes | yes | yes | yes |
-| Claude Code | stream-json | yes | no | yes | yes | yes |
-| GitHub Copilot CLI | ACP | not yet | no | no | no | yes |
+| Claude Code | stream-json | yes | yes | yes | yes | yes |
+| GitHub Copilot CLI | ACP | yes | no | yes | yes | yes |
 
 Keep this table in step with the capability table in README.md.
-Style: full gray grid, teal header row, teal `yes`, gray `no` and `not yet`.
+Style: full gray grid, teal header row, teal `yes`, gray `no`.
 
 ## ../../.claude-plugin/icon.png
 

diff --git a/docs/DIRECTION_ASSESSMENT.md b/docs/DIRECTION_ASSESSMENT.md
@@ -31,8 +31,8 @@ The [Claude 2.1.318](../probes/host-qualification/claude/REPORT-2026-11-05.md) a
 [Codex 0.166.0](../probes/host-qualification/codex/REPORT-2026-11-05.md) host reports
 fix the signal/timeout assumptions: pending calls can be cancelled, gaps need
 stop markers (the gap lease was removed on 2026-11-19), and progress does not extend the 1320 s per-call wall. They do
-not qualify cleanup. Desktop, operator TUI rows, installed-form acceptance and
-Copilot cold load remain explicit [release gates](RELEASE_READINESS.md#release-gates).
+not qualify cleanup. On November 5, desktop, operator TUI rows, installed-form acceptance and
+Copilot cold load were explicit [release gates](RELEASE_READINESS.md#release-gates).
 
 ## 5. Review loop
 
